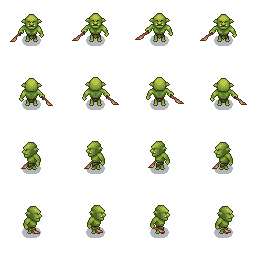
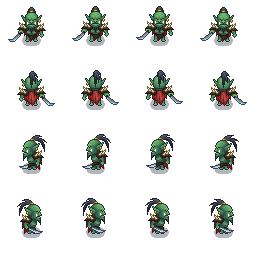
敵の見た目を変更

diff --git a/Game/Game/source/Enemy.cpp b/Game/Game/source/Enemy.cpp
@@ -4,14 +4,24 @@
 #include "DxLib.h"
 #include <cstdio>
 
+namespace
+{
+	static constexpr auto DAMAGE_SHAKE_STRENGTH = 50.0f;
+	static constexpr auto DAMAGE_SHAKE_DURATION = 0.3f;
+}
+
+
 bool Enemy::Initialize()
 {
 	if(!base::Initialize()) { return false; }
 
 	SetSpriteSheet(STATUS::IDLE, "res/Enemy/Enemy_Idle.png", 4, 4);
+	SetSpriteSheet(STATUS::IDLE, "res/Enemy/Enemy_Idle.png", 4, 4);
+
 	
 	SetSpriteAnimTable(
 	{
+		{ STATUS::IDLE, {  4,  5.0f, true  } },
 		{ STATUS::IDLE, {  4,  5.0f, true  } },
 	});
 
@@ -53,4 +63,21 @@ bool Enemy::Process()
 bool Enemy::Render()
 {
 	return base::Render();
+}
+
+bool Enemy::Damage(float damage)
+{
+	if(IsInvincible())
+	{
+		return false;
+	}
+
+	if(!base::Damage(damage))
+	{
+		return false;
+	}
+
+	_status = STATUS::DAMAGE;
+
+	return true;
 }

diff --git a/Game/Game/source/Enemy.h b/Game/Game/source/Enemy.h
@@ -10,5 +10,11 @@ public:
 	virtual bool Terminate() override;
 	virtual bool Process() override;
 	virtual bool Render() override;
+
+	virtual void Update
+
+	virtual bool Damage(float damage) override;
+
+
 };
 
